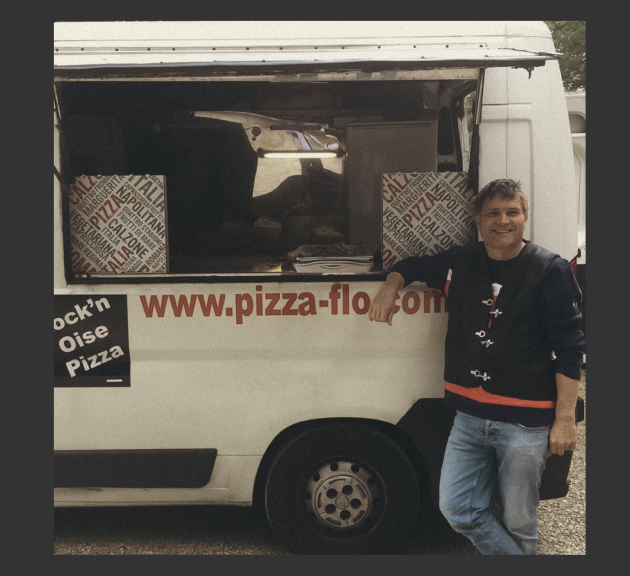
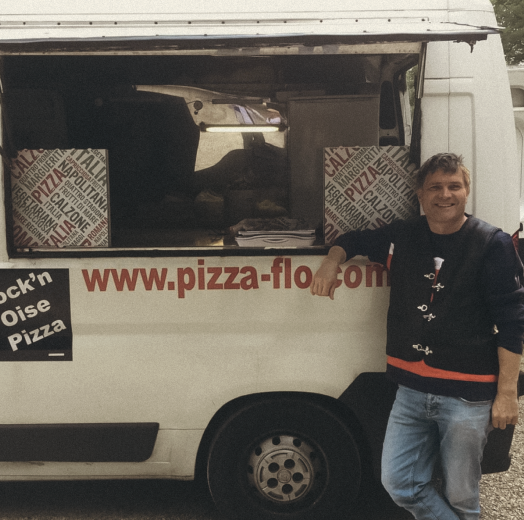
fix(privateEvents section): design improved

diff --git a/src/pages/privateEvents.html b/src/pages/privateEvents.html
@@ -100,16 +100,17 @@
     </header>
 
 
-    <main class="min-nav-footer-height bg-overlay-black xl:py-24">
-        <section class="xl:px-20"> <!-- title and text -->
-            <div class="flex-1 order-1 xl:order-2 xl:flex xl:items-center xl:pe-14 xl:ps-6">
-                <div class="h-full px-6 xl:px-0 xl:py-6 text-container flex flex-col justify-between">
+    <main class="min-nav-footer-height bg-overlay-black xl:py-24 lg:flex">
+        <!-- Section titre et texte -->
+        <section class="xl:ps-16 lg:flex-1 bg-stone-400 lg:flex lg:items-center">
+            <div class="flex-1 order-1 xl:order-2 xl:flex xl:items-center xl:ps-6">
+                <div class="h-full px-6 xl:px-0 text-container flex flex-col justify-between">
                     <div>
                         <h1
                             class="py-8 text-white text-center font-oswald uppercase text-2xl xl:text-4xl xl:text-start text-balance">
                             Organisez votre évènement
                         </h1>
-                        <p class="xl:px-0 text-justify text-white font-openSans xl:pt-6">
+                        <p class="text-justify text-white font-openSans xl:pt-6">
                             Phasellus ac nisi ut nunc scelerisque commodo. Nulla facilisi. Ut nec metus ac tortor auctor
                             convallis.
                             Integer ut urna in lorem interdum pharetra at ac magna. Vivamus vehicula maximus tellus a
@@ -120,7 +121,8 @@
                             Praesent
                             scelerisque, odio nec eleifend interdum, urna turpis cursus turpis, in consequat justo eros
                             a erat.
-                            <br><br>
+                        </p>
+                        <p class="text-justify text-white font-openSans pt-4">
                             Quisque at lorem eros. Curabitur eget erat ut lectus consectetur malesuada. Etiam malesuada
                             tristique
                             dui non scelerisque. Maecenas pharetra massa nec ultricies laoreet. Suspendisse potenti. Ut
@@ -137,16 +139,19 @@
                         </p>
                         <div class="text-center pt-6">
                             <a href="#"
-                                class="py-3 max-md-sm:px-6 px-8 inline-flex items-center gap-x-2 max-md-sm:text-sm sm:text-lg font-semibold rounded-lg border-2 border-white text-white font-oswald hover:border-logo-green hover:text-logoborder-logo-green disabled:opacity-50 hover:text-opacity-80 disabled:pointer-events-none transition duration-300 ease-in-out mb-3 xl:mb-0 xl:me-10">J'accède
-                                au formulaire de contact</a>
+                                class="py-3 px-8 max-md-sm:px-6 inline-flex items-center gap-x-2 max-md-sm:text-sm sm:text-lg font-semibold rounded-lg border-2 border-white text-white font-oswald hover:border-logo-green hover:text-logo-green disabled:opacity-50 hover:text-opacity-80 disabled:pointer-events-none transition duration-300 ease-in-out mb-3 xl:mb-0 xl:me-10">
+                                J'accède au formulaire de contact
+                            </a>
                         </div>
-        </section>
-        <section>
-            <div class="flex-1 order-2 xl:order-1 flex justify-center xl:ps-14">
-                <!-- TODO: responsive design after (ipad air paysage min.) -->
-                <img class="privateEvents__img-resize py-6 w-full object-cover" src="/assets/img/toreplace/jc-truck.png"
-                    alt="Photo d'un vieux Food Truck typique" loading="lazy">
+                    </div>
+                </div>
             </div>
+        </section>
+
+        <!-- Section image -->
+        <section class="lg:flex-1 flex justify-center items-center bg-red-400">
+            <img class="privateEvents__img-resize py-6 object-cover w-full px-6"
+                src="/assets/img/toreplace/jc-truck.png" alt="Photo d'un vieux Food Truck typique" loading="lazy">
         </section>
 
         <!-- ! Cookies consent -->

diff --git a/src/pages/findMe.html b/src/pages/findMe.html
@@ -101,7 +101,7 @@
 
 
     <main class="min-nav-footer-height bg-overlay-black xl:py-24">
-        <section class="xl:px-20"> <!-- title and text -->
+        <section class="xl:px-20 xl:pt-6"> <!-- title and text -->
             <h1
                 class="py-8 text-white text-center font-oswald uppercase text-2xl xl:text-4xl xl:text-start text-balance">
                 Votre Rendez-vous Gourmand en Semaine

diff --git a/src/styles/pages/privateEvents/privateEvents.css b/src/styles/pages/privateEvents/privateEvents.css
@@ -1,3 +1,3 @@
 .privateEvents__img-resize {
-  max-width: 600px;
+  max-width: 700px;
 }
